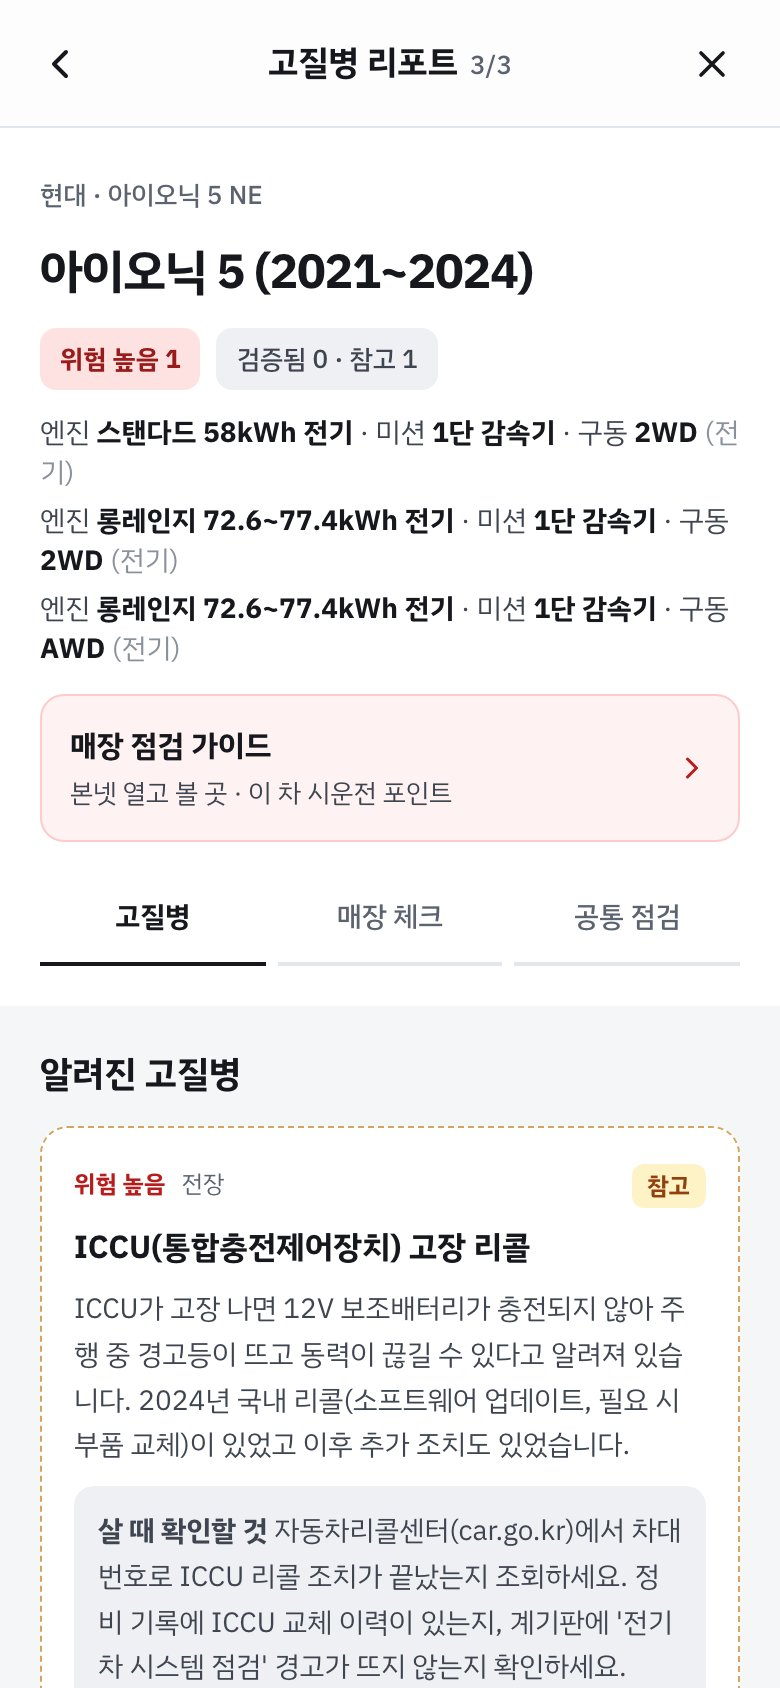
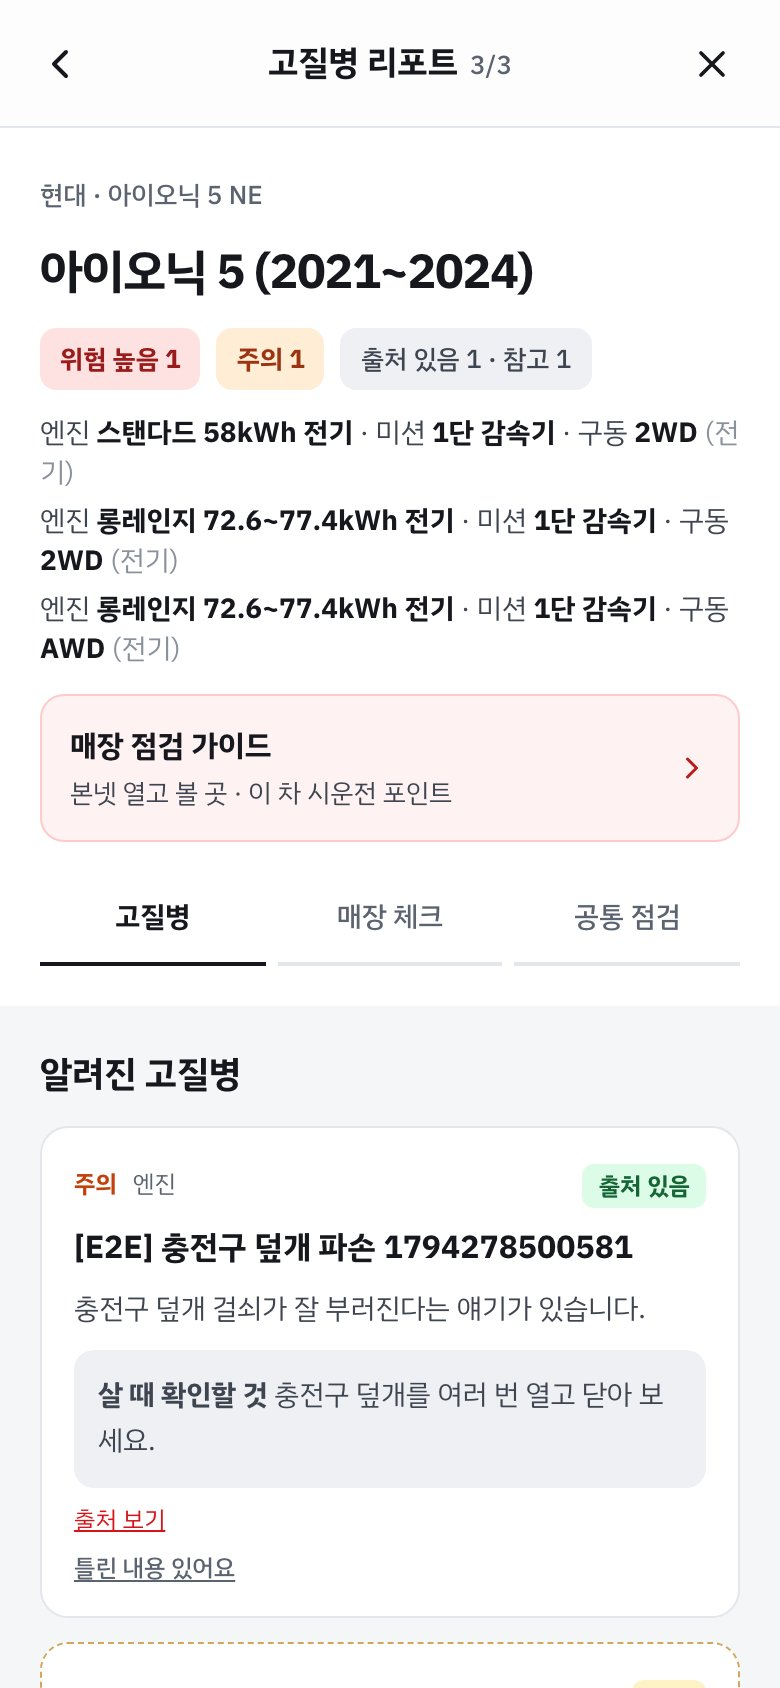
중구: 고질병 데이터 고민과 AI 활용 변경을 문제 해결에 추가, 라벨·설명·이미지 반영

diff --git a/public/resume_public.html b/public/resume_public.html
@@ -192,7 +192,7 @@
 <p class="desc">중고차 매장에서 확인할 고질병과 점검 포인트를 휴대폰 한 손으로 보고 싶다는 생각에서 시작한 서비스</p>
 <p class="share"><strong>기여도</strong> 기획·API·화면·배포 전부(1인)</p>
 <table class="frame">
-  <tr><th>한 일</th><td>NestJS·Prisma·PostgreSQL + Next.js. 사실 정보는 검증된 DB에서만, AI(Gemini)는 안내만 맡김. 구글 로그인·ADMIN/EDITOR 권한, 초안 → 검토 → 승인/반려 심사 흐름(상태 변경과 이력을 한 트랜잭션, 동시 승인 시 409), Playwright E2E + GitHub Actions(CI 통과 후에만 배포), Vercel·Render·Neon 배포, Sentry</td></tr>
+  <tr><th>한 일</th><td>NestJS·Prisma·PostgreSQL + Next.js. 고질병은 차주들의 경험 데이터라 정확·부정확 대신 출처 유무로 구분해 DB로 제공, AI(Gemini)는 차종·연식 추천만 맡김. 구글 로그인·ADMIN/EDITOR 권한, 초안 → 검토 → 승인/반려 심사 흐름(상태 변경과 이력을 한 트랜잭션, 동시 승인 시 409), Playwright E2E + GitHub Actions(CI 통과 후에만 배포), Vercel·Render·Neon 배포, Sentry</td></tr>
   <tr><th>결과</th><td>제조사 6곳·차종 40개·세대 98개·엔진/미션 조합 224개 데이터와 고질병 초안 18건으로 2026.10.27 배포</td></tr>
   <tr><th>다음 단계</th><td>혼자 검증해도 "이게 정말 맞나?"를 완전히 지울 수 없어서, 사용자가 틀린 정보를 바로 짚어 "이거 틀린데요?"라고 제보할 수 있는 커뮤니티를 다음 단계로 기획했습니다. 제보는 고질병 초안으로 넘어가 같은 심사 흐름을 거칩니다. 또 지금 쓰는 도구가 실무 규모에서도 맞는지 계속 점검하고 있습니다. 사용자가 늘면 서버 메모리에 둔 AI 답변 캐시와 요청 제한은 Redis로 옮기고, 15분 쉬면 잠드는 무료 서버(Render)는 상시 서버로 바꿔야 합니다.</td></tr>
   <tr><th>URL</th><td><a href="https://car-check-fawn-zeta.vercel.app/" target="_blank" rel="noopener noreferrer">car-check-fawn-zeta.vercel.app</a> · <a href="https://github.com/HeeJeShin/car-check" target="_blank" rel="noopener noreferrer">GitHub</a></td></tr>

diff --git a/app/projects/car-check/_components/HeroSection.tsx b/app/projects/car-check/_components/HeroSection.tsx
@@ -18,7 +18,7 @@ export const HeroSection = () => {
       <p className="text-lg text-gray-600 leading-relaxed max-w-3xl">
         차종과 연식을 넣으면 <strong className="text-gray-900">중고차를 살 때 확인할 고질병과 매장 점검 포인트</strong>를 알려주는 서비스.
         <br />
-        사실 정보는 <strong className="text-gray-900">사람이 검증한 DB</strong>로, 안내·추천은 <strong className="text-gray-900">AI</strong>로 역할을 나눴습니다.
+        고질병은 <strong className="text-gray-900">사람이 출처를 확인한 DB</strong>로 관리하고, <strong className="text-gray-900">AI</strong>에게는 차량 추천만 맡겼습니다.
       </p>
 
       <div className="flex flex-wrap gap-3 mt-6">
@@ -57,8 +57,8 @@ export const HeroSection = () => {
             <strong>직접 겪을 문제에서 출발했습니다.</strong> 면허를 따고 차를 사려던 참에, 중고차 고질병 정보가 유튜브·네이버 카페에 차주 경험담으로 흩어져 있다는 걸 알게 됐습니다.
           </p>
           <p>
-            돈이 걸린 사실 정보라 AI의 그럴듯한 답에 맡기지 않고, 출처가 있어야만 <strong className="text-gray-900">&apos;검증됨&apos;</strong>이 되는 DB로 관리합니다.
-            AI는 &quot;무엇부터 알아볼지&quot;처럼 정답이 하나가 아닌 안내만 맡습니다.
+            돈이 걸린 정보라 AI의 그럴듯한 답에 맡기지 않고, 출처가 있어야만 <strong className="text-gray-900">&apos;출처 있음&apos;</strong>이 되는 DB로 관리합니다.
+            AI는 &quot;유지비 적은 차&quot;처럼 정답이 하나가 아닌 조건을 받아 등록된 차 안에서 차종과 연식을 추천하는 일만 맡습니다.
           </p>
           <p>
             실무 4년은 프론트엔드였고 서버·DB·배포는 다른 팀이 맡았습니다. 그 빈 곳을 <strong className="text-gray-900">이 서비스에 필요한 순서대로 직접 만들며</strong> 메우고 있습니다.

diff --git a/app/_data/decisions.ts b/app/_data/decisions.ts
@@ -11,6 +11,20 @@ export type Decision = {
 };
 
 export const decisions: Record<string, Decision[]> = {
+  "car-check": [
+    {
+      id: "issue-data",
+      title: "고질병은 맞고 틀림을 가릴 수 있는 정보일까",
+      situation:
+        "처음에는 고질병 정보의 정합도를 높이는 게 목표여서, 출처를 확인하면 '검증됨'으로 표시하고 AI에게는 안내와 차종 추천을 맡겼습니다. 하지만 고민할수록 고질병 정보의 출발점은 커뮤니티와 유튜브에 흩어진 차주들의 경험이었습니다.",
+      judgment:
+        "고질병은 결국 유저들의 경험, 즉 데이터인데 정확·부정확이라는 표현이 옳은지 의문이 들었습니다. 이 서비스를 만든 이유도 정답을 판정하기 위해서가 아니라, 매매단지에서 커뮤니티와 영상을 일일이 찾아볼 수 없고 미리 공부할 시간도 부족하기 때문이었습니다. AI를 아예 빼는 안도 고민했지만, 차를 아직 못 정한 사람을 고질병 확인으로 이어주는 추천은 이 목적에 맞다고 판단했습니다.",
+      action:
+        "'검증됨' 라벨을 '출처 있음'으로 바꾸고, '무엇부터 알아볼지' 안내 기능은 없앴습니다. AI는 '유지비 적은 차'처럼 한 문장 조건을 받아 등록된 세대 안에서 차종과 연식만 고르게 하고, 서버가 세대 번호와 판매 연식을 DB와 다시 대조하도록 활용 방식을 변경했습니다.",
+      result:
+        "라벨이 정보의 성격을 그대로 말하게 됐고, AI 추천은 모두 고질병 리포트로 이어집니다. 회고: AI를 어디에 쓸지 정하기 전에, 다루는 데이터가 무엇이고 사용자가 어떤 순간에 찾는지부터 정의해야 한다는 걸 배웠습니다.",
+    },
+  ],
   exhibition: [
     {
       title: "AI를 쓰는 건 당연해졌다, 필요한 건 검증 방식의 규격화",

diff --git a/app/_components/ChallengesSection.tsx b/app/_components/ChallengesSection.tsx
@@ -3,7 +3,7 @@ import Link from "next/link";
 const challenges = [
   {
     title: "백엔드 공부: 데이터가 지켜지는 구조까지 직접 만들기",
-    desc: "스마트관광 프로젝트에서 결제 완료 처리를 백엔드로 옮기자고 제안하며, 데이터의 정확성은 화면이 아니라 서버가 책임져야 한다는 걸 배웠습니다. 제안에서 그치지 않고 그 구조를 직접 만들어봐야 백엔드와 더 깊이 논의할 수 있다고 생각해 백엔드를 공부하고 있습니다. NestJS를 고른 이유는 프론트에서 쓰던 TypeScript를 그대로 쓸 수 있고, Module·Controller·Service로 구조가 정해져 있어 누가 봐도 흐름을 바로 읽을 수 있기 때문입니다. 중고차 구매 가이드(중구)를 만들며 고질병 같은 돈이 걸린 정보는 출처가 없으면 \'검증됨\'으로 저장되지 않도록 서버 규칙으로 막고, AI(Gemini)는 안내와 추천에만 쓰도록 역할을 나눴습니다.",
+    desc: "스마트관광 프로젝트에서 결제 완료 처리를 백엔드로 옮기자고 제안하며, 데이터의 정확성은 화면이 아니라 서버가 책임져야 한다는 걸 배웠습니다. 제안에서 그치지 않고 그 구조를 직접 만들어봐야 백엔드와 더 깊이 논의할 수 있다고 생각해 백엔드를 공부하고 있습니다. NestJS를 고른 이유는 프론트에서 쓰던 TypeScript를 그대로 쓸 수 있고, Module·Controller·Service로 구조가 정해져 있어 누가 봐도 흐름을 바로 읽을 수 있기 때문입니다. 중고차 구매 가이드(중구)를 만들며 고질병 같은 돈이 걸린 정보는 출처가 없으면 \'출처 있음\'으로 저장되지 않도록 서버 규칙으로 막고, AI(Gemini)는 차량 추천에만 쓰도록 역할을 나눴습니다.",
     link: "https://github.com/HeeJeShin/car-check",
   },
   {

diff --git a/app/projects/car-check/page.tsx b/app/projects/car-check/page.tsx
@@ -1,5 +1,6 @@
 "use client";
 
+import { DecisionSection } from "@/app/_components/DecisionSection";
 import {
   Header,
   HeroSection,
@@ -21,6 +22,7 @@ const CarCheckProject = () => {
         <HeroSection />
         <ScreensSection />
         <ApproachesSection />
+        <DecisionSection projectId="car-check" />
         <ServicesSection />
         <TeamPlanSection />
         <RetrospectiveSection />
